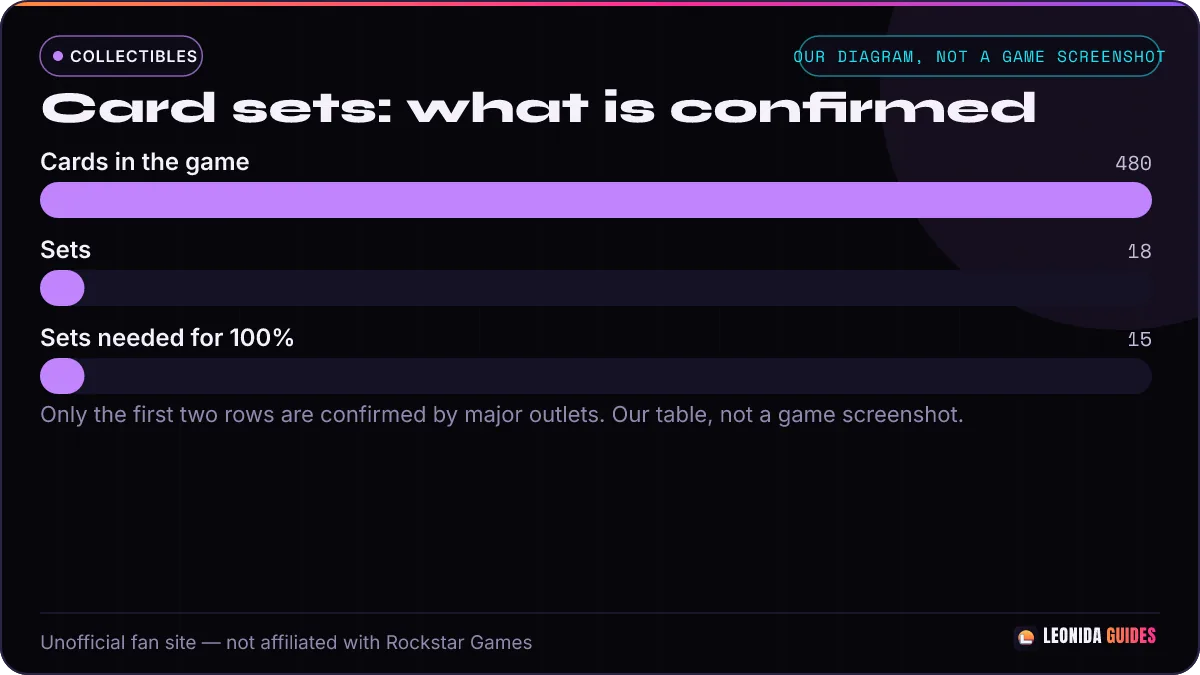
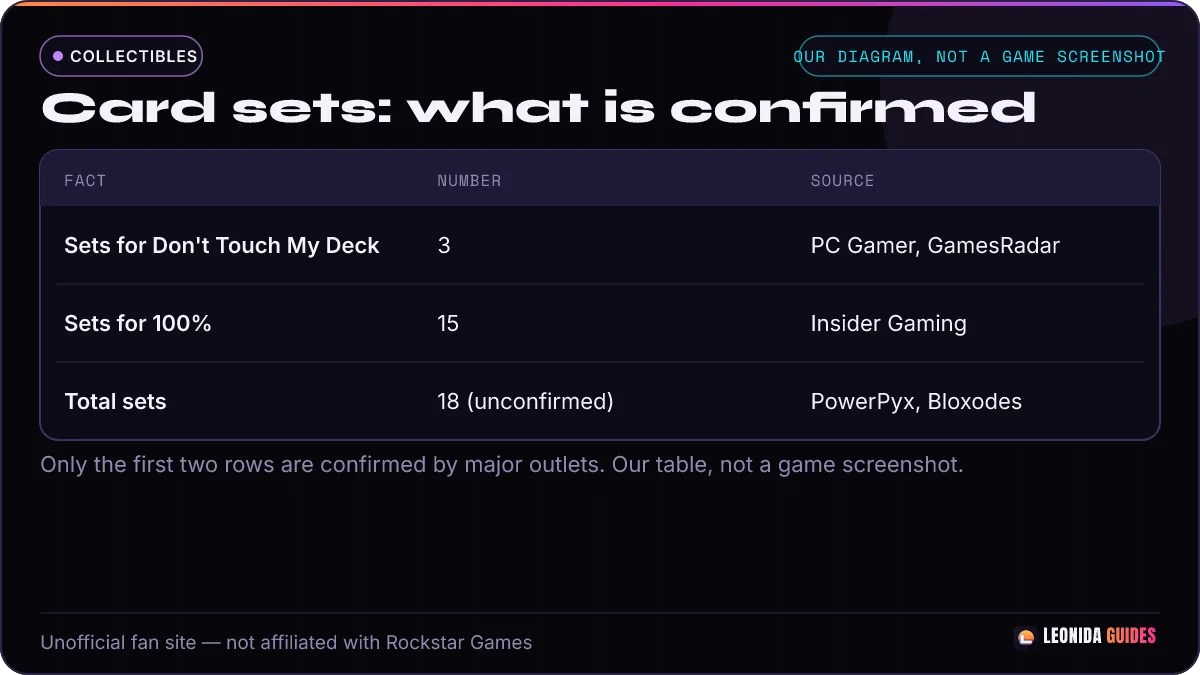
content: auto-publish 2026-11-18T21:56:33Z

Changed region(s): [[0.0308, 0.2178, 0.9867, 0.7156], [0.6783, 0.4667, 0.8017, 0.4978], [0.37, 0.4667, 0.4008, 0.4978]]

diff --git a/content/gta-6-collectible-cards.md b/content/gta-6-collectible-cards.md
@@ -44,7 +44,7 @@ draft: true
 
 GamesRadar lists Don't Touch My Deck as Silver / 30G. Neither outlet gives the total number of cards or sets.
 
-![Our diagram: Card sets: what is confirmed. Cards in the game: 480. Sets: 18. Sets needed for 100%: 15. Not a game screenshot.](TODO: image:gta-6-collectible-cards-step-1 — diagram, our own art: Card sets: what is confirmed, see the spec)
+![Our diagram: Card sets: what is confirmed. Sets for Don't Touch My Deck / 3 / PC Gamer, GamesRadar. Sets for 100% / 15 / Insider Gaming. Total sets / 18 (unconfirmed) / PowerPyx, Bloxodes. Not a game screenshot.](TODO: image:gta-6-collectible-cards-step-1 — diagram, our own art: Card sets: what is confirmed, see the spec)
 *Caption: Diagram. What major outlets confirm. The total of 18 sets is an unconfirmed report.*
 
 ## Early reports: not yet confirmed by a major outlet
